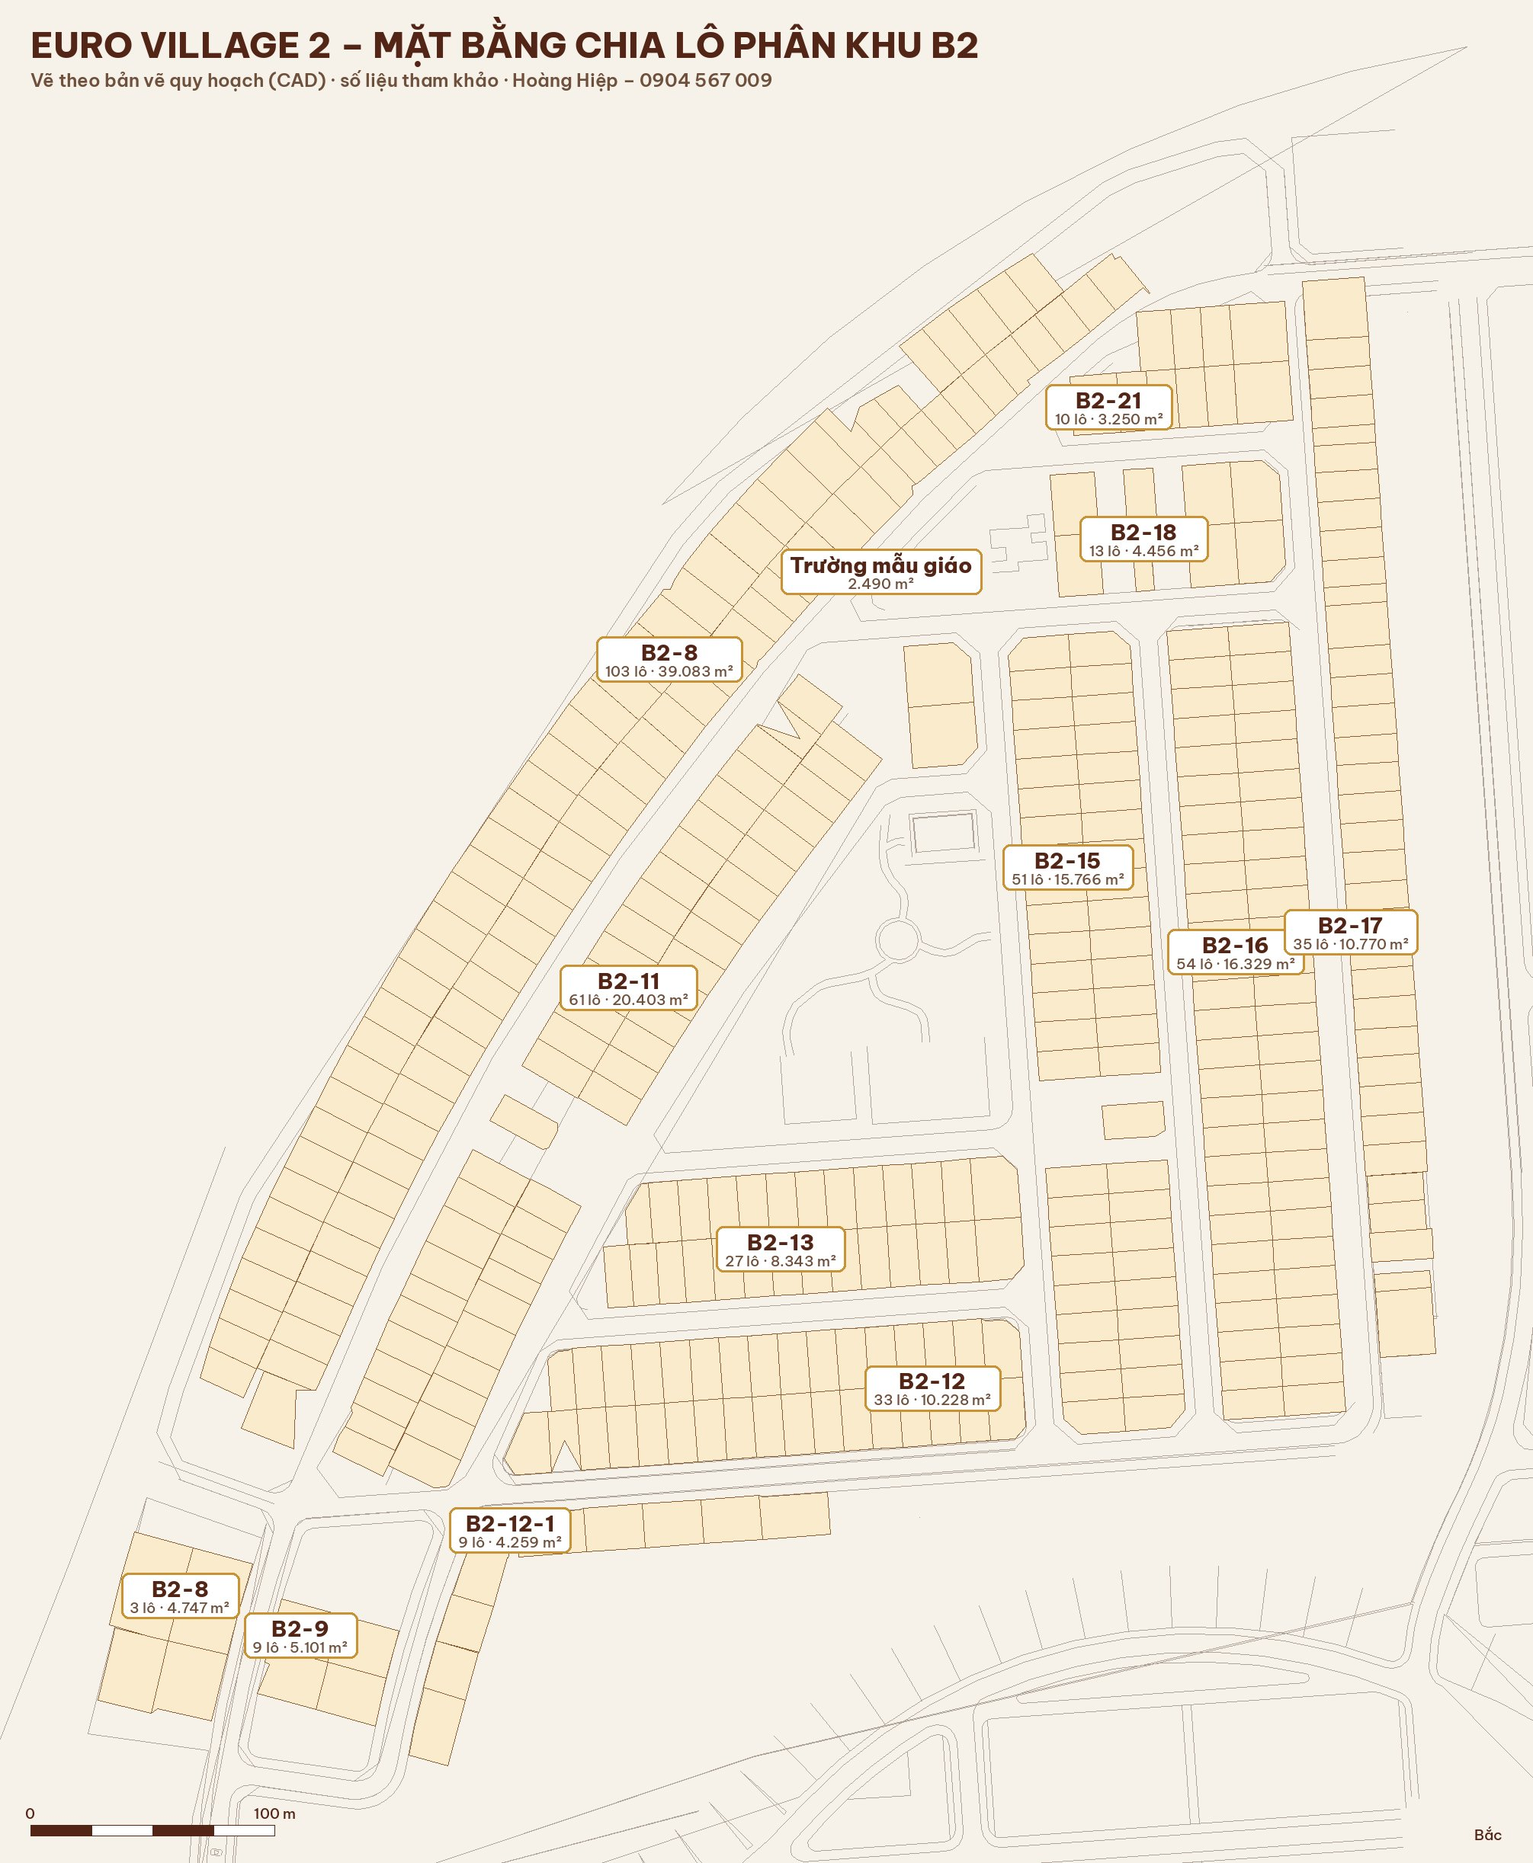
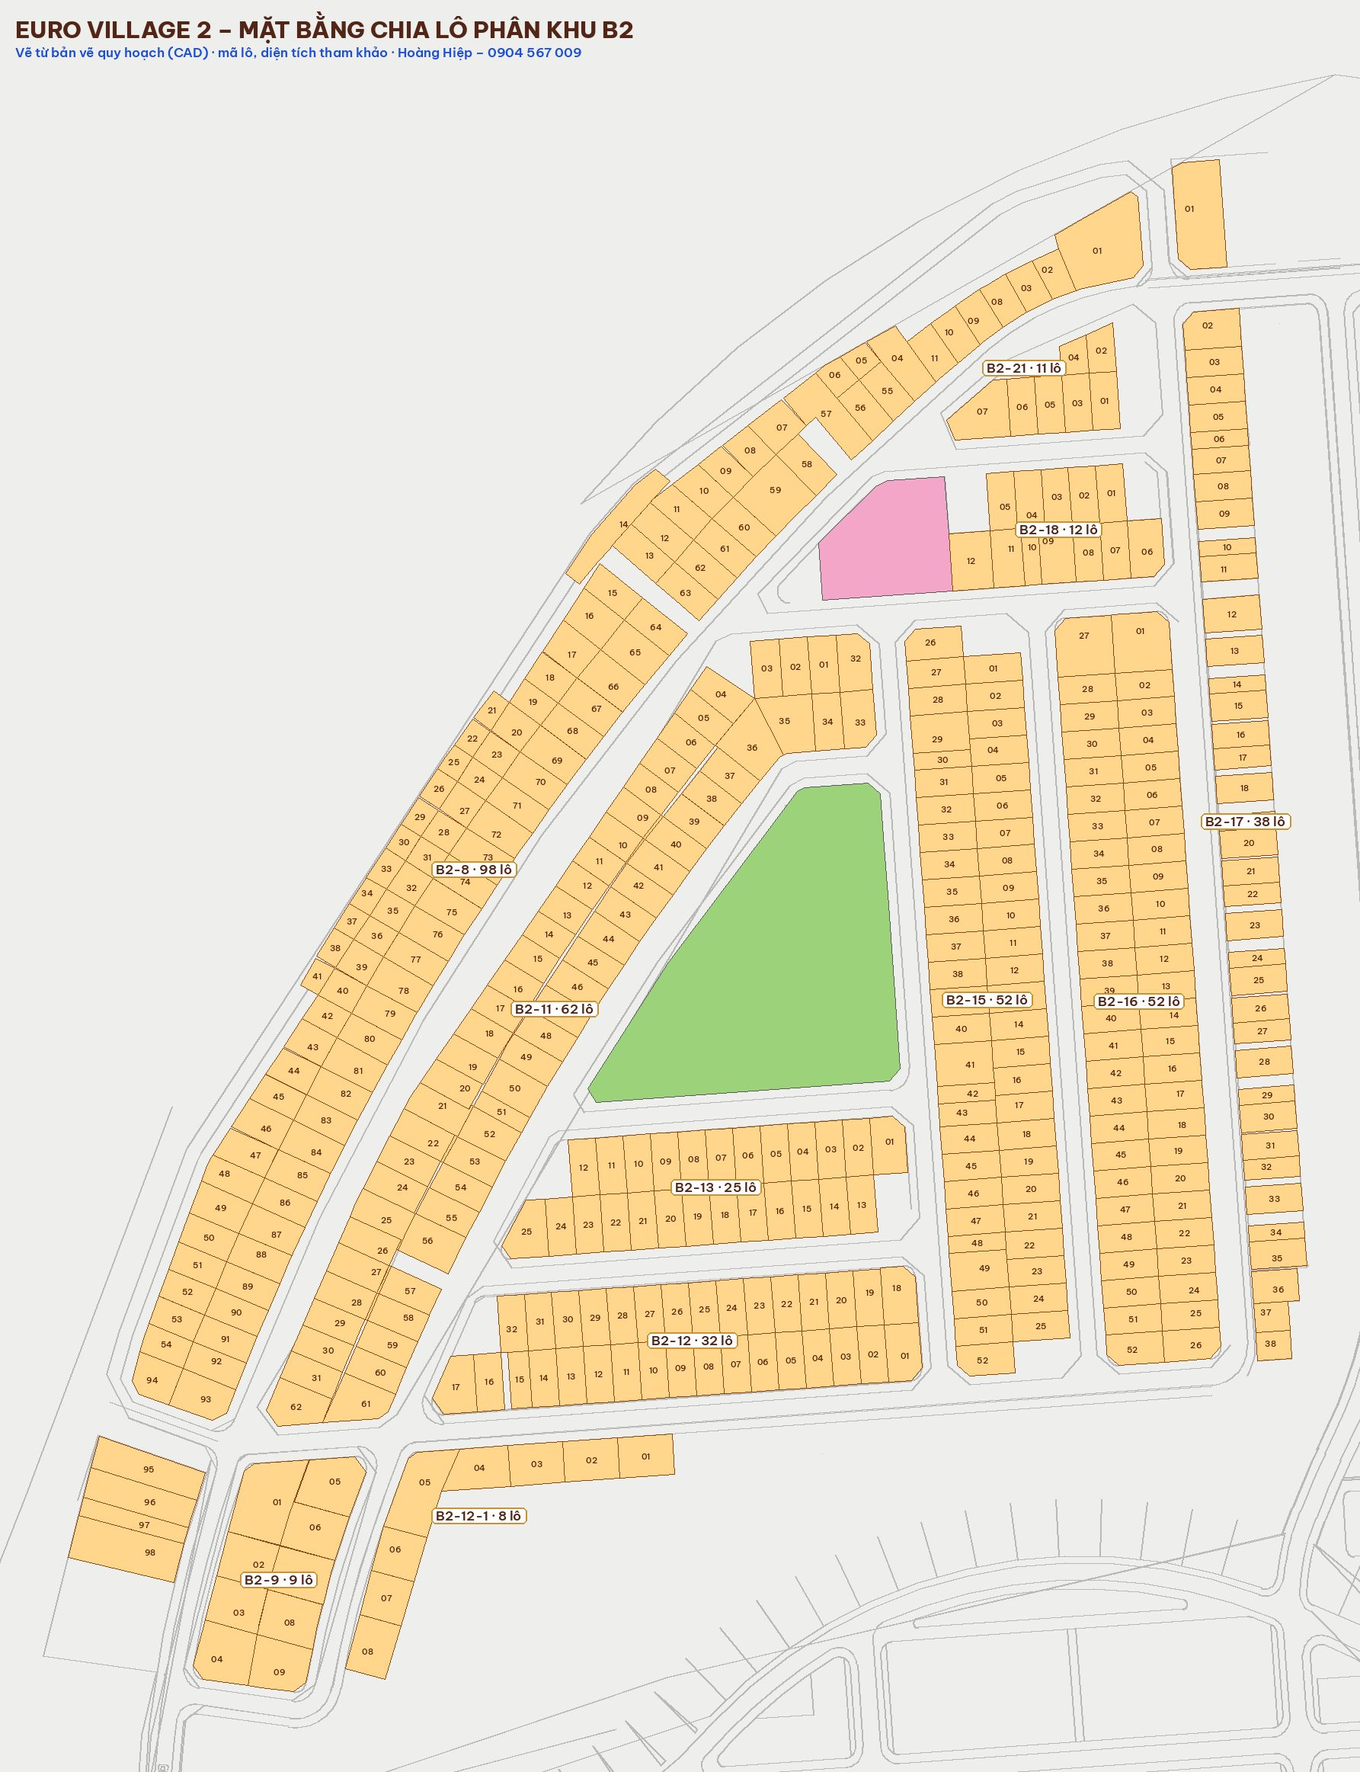
2.20.295: Euro Village 2 – sơ đồ chia lô dựng lại từ CAD, mã lô, màu quy hoạch, căn vị trí theo 2 điểm
Claude-Session: https://claude.ai/code/session_011HGb6VAzLiwbq5KWLxGuh9

diff --git a/wordpress/wp-content/mu-plugins/hh-crm/mat-bang-ban-do.php b/wordpress/wp-content/mu-plugins/hh-crm/mat-bang-ban-do.php
@@ -2,8 +2,8 @@
 /**
  * Mặt bằng chia lô trên bản đồ vệ tinh (dạng vector, bấm từng lô xem diện tích – rộng – sâu).
  * Dữ liệu lô lấy từ file CAD quy hoạch anh Hiệp gửi (Hoa XUan 2019.dwg): ranh lô, mép đường đúng kích thước thật,
- * hướng Bắc theo lưới bản vẽ. File CAD không ghi hệ tọa độ dùng được, nên vị trí trên bản đồ do admin ghim 1 lần
- * (dán tọa độ Google Maps của điểm mốc → Căn theo điểm → Lưu). Khách chỉ thấy khi anh Hiệp bấm "Cho khách xem".
+ * hướng Bắc theo lưới bản vẽ. Tọa độ trong file CAD lệch khoảng 6 km so với thực địa, nên vị trí căn theo 2 điểm mốc
+ * có tọa độ Google Maps thật ('pins' trong hh_mbbd_plans, hoặc admin dán 2 tọa độ → Căn theo 2 điểm → Lưu). Khách chỉ thấy khi anh Hiệp bấm "Cho khách xem".
  */
 
 defined( 'ABSPATH' ) || exit;
@@ -16,9 +16,12 @@ function hh_mbbd_plans() {
 			'data'    => 'img/mat-bang-ban-do/euro-village-2-lo.json',
 			'image'   => 'img/mat-bang-ban-do/euro-village-2-b2-so-do.jpg',
 			'center'  => array( 16.02494, 108.23030 ), // Gợi ý ban đầu (Plus Code 26FJ+X4F, đường Giáng Hương 6) – admin ghim lại cho đúng.
+			// 2 điểm mốc (mét theo bản vẽ). 'pins' = tọa độ Google Maps thật của 2 điểm này (anh Hiệp gửi) → web tự căn vị trí, góc xoay, tỉ lệ.
 			'anchors' => array(
-				array( 'Tâm vòng tròn trong công viên', 86.12, 30.74 ),
+				array( 'Ngã tư góc Tây Bắc khu B2-15 (dưới trường mẫu giáo)', 90.5, 159.4 ),
+				array( 'Ngã tư Đường số 4 – Đường số 9 (góc Đông Nam)', 273.9, -167.6 ),
 			),
+			'pins'    => null,
 		),
 	);
 }
@@ -51,12 +54,13 @@ add_action(
 		if ( ! $admin && ! get_option( 'hh_mbbd_duyet_' . $slug ) ) {
 			return; // Chưa được anh Hiệp duyệt: khách không thấy sơ đồ.
 		}
-		$saved = get_option( 'hh_mbbd2_' . $slug );
+		$saved = get_option( 'hh_mbbd3_' . $slug ); // v3: sơ đồ vẽ lại từ CAD (15/11/2026) – bỏ vị trí ghim theo sơ đồ cũ.
 		$cfg   = array(
 			'data'    => HH_CRM_URL . $p['data'] . '?v=' . HH_CRM_VERSION,
 			'center'  => $p['center'],
 			'anchors' => $p['anchors'],
 			'saved'   => is_array( $saved ) ? $saved : null,
+			'pins'    => $p['pins'] ?? null,
 			'admin'   => $admin,
 			'ajax'    => admin_url( 'admin-ajax.php' ),
 			'nonce'   => $admin ? wp_create_nonce( 'hh_mbbd_' . $slug ) : '',
@@ -67,14 +71,15 @@ add_action(
 		?>
 <div class="hh-mbbd" style="margin:28px 0 8px">
 <h3 style="margin:0 0 6px;font-size:1.15rem">Mặt bằng chia lô <?php echo esc_html( $p['title'] ); ?></h3>
-<p style="font-size:.9rem;color:#6b5b4b;margin:0 0 10px">Bấm vào từng lô để xem <b>diện tích, chiều rộng, chiều sâu</b>. Kéo thanh <b>Độ đậm</b> để so với ảnh vệ tinh hiện trạng.</p>
+<p style="font-size:.9rem;color:#6b5b4b;margin:0 0 10px">Bấm vào từng lô để xem <b>mã lô, diện tích, chiều rộng, chiều sâu</b>; phóng to để thấy mã lô trên sơ đồ. Kéo thanh <b>Độ đậm</b> để so với ảnh vệ tinh hiện trạng.</p>
 <div id="<?php echo esc_attr( $id ); ?>" style="height:min(78vh,640px);border-radius:12px;overflow:hidden;background:#dfe9ef"></div>
 <div class="hh-mbbd-bar" style="display:flex;flex-wrap:wrap;gap:8px;align-items:center;margin-top:8px;font-size:.9rem">
 	<label>Độ đậm <input type="range" min="0" max="100" value="85" data-k="op" style="vertical-align:middle"></label>
 	<?php if ( $admin ) : ?>
-	<span style="flex-basis:100%;color:#8a4b1c"><b>Admin – ghim vị trí 1 lần:</b> mở Google Maps (vệ tinh) → bấm chuột phải đúng <b>tâm vòng tròn trong công viên</b> (chấm xanh ①) → bấm dòng tọa độ để sao chép → dán vào ô → <b>Căn theo điểm</b> → kiểm tra khớp → <b>Lưu vị trí</b>. Có thể kéo chấm đỏ / xoay để chỉnh tinh.</span>
-	<label style="flex-basis:100%">① Tâm vòng tròn công viên: <input type="text" data-k="a1" placeholder="VD 16.02494, 108.23030" style="min-width:240px;padding:5px 8px"></label>
-	<button type="button" data-k="go" style="background:#c99234;color:#fff;border:0">Căn theo điểm</button>
+	<span style="flex-basis:100%;color:#8a4b1c"><b>Admin – căn vị trí 1 lần:</b> mở Google Maps (vệ tinh) → bấm chuột phải đúng <b>2 ngã tư</b> có chấm xanh ① ② trên sơ đồ → bấm dòng tọa độ để sao chép → dán vào 2 ô → <b>Căn theo 2 điểm</b> (tự đúng vị trí, góc xoay, tỉ lệ) → kiểm tra khớp → <b>Lưu vị trí</b>.</span>
+	<label style="flex-basis:100%">① <?php echo esc_html( $p['anchors'][0][0] ); ?>: <input type="text" data-k="a1" placeholder="VD 16.02494, 108.23030" style="min-width:240px;padding:5px 8px"></label>
+	<label style="flex-basis:100%">② <?php echo esc_html( $p['anchors'][1][0] ); ?>: <input type="text" data-k="a2" placeholder="VD 16.02210, 108.23250" style="min-width:240px;padding:5px 8px"></label>
+	<button type="button" data-k="go" style="background:#c99234;color:#fff;border:0">Căn theo 2 điểm</button>
 	<button type="button" data-k="r-1">⟲ 1°</button><button type="button" data-k="r-.2">⟲ 0,2°</button><button type="button" data-k="r.2">⟳ 0,2°</button><button type="button" data-k="r1">⟳ 1°</button>
 	<button type="button" data-k="save" style="background:#532516;color:#fff;border:0;border-radius:6px;padding:6px 14px">Lưu vị trí</button>
 	<button type="button" data-k="reset">Bỏ vị trí đã lưu</button>
@@ -92,7 +97,18 @@ add_action(
 	var el = document.getElementById(<?php echo wp_json_encode( $id ); ?>);
 	if (!window.L || !el) { return; }
 	var bar = el.nextElementSibling;
-	var st = C.saved ? { lat: +C.saved.lat, lng: +C.saved.lng, rot: +C.saved.rot, sc: +C.saved.sc } : { lat: C.center[0], lng: C.center[1], rot: 0, sc: 1 };
+	var st = C.saved ? { lat: +C.saved.lat, lng: +C.saved.lng, rot: +C.saved.rot, sc: +C.saved.sc || 1 } : { lat: C.center[0], lng: C.center[1], rot: 0, sc: 1 };
+	// Căn theo 2 điểm: điểm mốc trên bản vẽ (mét) ↔ tọa độ thật → vị trí, góc xoay, tỉ lệ.
+	function fit2(g1, g2) {
+		var A = C.anchors[0], B = C.anchors[1], k = 111320 * Math.cos(g1[0] * Math.PI / 180);
+		var de = B[1] - A[1], dn = B[2] - A[2], ge = (g2[1] - g1[1]) * k, gn = (g2[0] - g1[0]) * 111320;
+		var sc = Math.hypot(ge, gn) / Math.hypot(de, dn);
+		if (!(sc > 0.9 && sc < 1.1)) { return false; }
+		st.sc = sc; st.rot = (Math.atan2(dn, de) - Math.atan2(gn, ge)) * 180 / Math.PI; st.lat = g1[0]; st.lng = g1[1];
+		var q = m2ll(A[1], A[2]); st.lat -= q.lat - g1[0]; st.lng -= q.lng - g1[1];
+		return true;
+	}
+	if (C.pins && C.pins.length === 2 && !C.saved) { fit2(C.pins[0], C.pins[1]); }
 	var map = L.map(el, { scrollWheelZoom: false, maxZoom: 21, zoomSnap: 0.5 }).setView([st.lat, st.lng], 17);
 	var sat = L.tileLayer('https://server.arcgisonline.com/ArcGIS/rest/services/World_Imagery/MapServer/tile/{z}/{y}/{x}', { maxZoom: 21, maxNativeZoom: 19, attribution: 'Ảnh vệ tinh © Esri, Maxar' }).addTo(map);
 	var osm = L.tileLayer('https://{s}.tile.openstreetmap.org/{z}/{x}/{y}.png', { maxZoom: 21, maxNativeZoom: 19, attribution: '© OpenStreetMap' });
@@ -108,15 +124,18 @@ add_action(
 	function draw() {
 		if (!D) { return; }
 		grp.clearLayers(); lbl.clearLayers();
+		var z = map.getZoom(), ZC = { park: '#9bd27a', school: '#f4a6c8' };
+		(D.zones || []).forEach(function (q) { L.polygon(q[1].map(function (p) { return m2ll(p[0], p[1]); }), { color: '#5d6b5d', weight: 1, fillColor: ZC[q[0]] || '#ddd', fillOpacity: op * .85, opacity: op, interactive: false }).addTo(grp); });
 		D.roads.forEach(function (r) { L.polyline(r.map(function (p) { return m2ll(p[0], p[1]); }), { color: '#ffffff', weight: 1.2, opacity: Math.min(1, op + .1), interactive: false }).addTo(grp); });
 		D.lots.forEach(function (l) {
-			var pg = L.polygon(l[4].map(function (p) { return m2ll(p[0], p[1]); }), { color: '#7a4a22', weight: 1, fillColor: '#f6e7cc', fillOpacity: op * .75, opacity: op });
-			pg.bindPopup('<b>Lô thuộc block ' + l[0] + '</b><br>Diện tích ≈ <b>' + fmt(l[1], 0) + ' m²</b><br>Rộng (mặt tiền) ≈ <b>' + fmt(l[2], 1) + ' m</b> · Sâu ≈ <b>' + fmt(l[3], 1) + ' m</b><br><small>Đo từ bản vẽ quy hoạch, tham khảo. Liên hệ Hoàng Hiệp 0904 567 009 để nhận thông tin lô.</small>');
+			var pg = L.polygon(l[4].map(function (p) { return m2ll(p[0], p[1]); }), { color: '#8c4614', weight: 1, fillColor: '#ffd68c', fillOpacity: op * .85, opacity: op });
+			pg.bindPopup('<b>Lô ' + (l[5] || l[0]) + '</b> <small>(block ' + l[0] + ')</small><br>Diện tích ≈ <b>' + fmt(l[1], 0) + ' m²</b><br>Rộng (mặt tiền) ≈ <b>' + fmt(l[2], 1) + ' m</b> · Sâu ≈ <b>' + fmt(l[3], 1) + ' m</b><br><small>Mã lô, kích thước đo từ bản vẽ quy hoạch – tham khảo, đối chiếu hồ sơ từng lô. Liên hệ Hoàng Hiệp 0904 567 009.</small>');
 			pg.on('mouseover', function () { pg.setStyle({ fillColor: '#f2a65a' }); });
-			pg.on('mouseout', function () { pg.setStyle({ fillColor: '#f6e7cc' }); });
+			pg.on('mouseout', function () { pg.setStyle({ fillColor: '#ffd68c' }); });
+			if (z >= 18.5 && l[5]) { pg.bindTooltip(l[5].split('-').pop(), { permanent: true, direction: 'center', className: 'hh-mbbd-ma' }); }
 			pg.addTo(grp);
 		});
-		var big = map.getZoom() >= 17.5;
+		var big = z >= 17.5;
 		D.labels.forEach(function (a) {
 			L.marker(m2ll(a[1], a[2]), { interactive: false, icon: L.divIcon({ className: 'hh-mbbd-lb', html: '<b>' + a[0] + '</b>' + (big && a[3] ? '<br><small>' + a[3] + '</small>' : ''), iconSize: null }) }).addTo(lbl);
 		});
@@ -135,25 +154,28 @@ add_action(
 	});
 	map.on('zoomend', draw);
 	var css = document.createElement('style');
-	css.textContent = '.hh-mbbd-lb{background:rgba(255,255,255,.92);border:2px solid #c99234;border-radius:8px;padding:2px 7px;color:#532516;font:600 12px/1.25 "Be Vietnam Pro",sans-serif;text-align:center;white-space:nowrap;transform:translate(-50%,-50%);width:auto!important;height:auto!important}.hh-mbbd-lb small{color:#6b5040;font-weight:500}.hh-mbbd-bar button{border:1px solid #c99234;background:#fff;border-radius:6px;padding:5px 10px;cursor:pointer}';
+	css.textContent = '.hh-mbbd-ma{background:none;border:0;box-shadow:none;padding:0;color:#5a2a08;font:600 10px/1 sans-serif}.hh-mbbd-ma:before{display:none}.hh-mbbd-lb{background:rgba(255,255,255,.92);border:2px solid #c99234;border-radius:8px;padding:2px 7px;color:#532516;font:600 12px/1.25 "Be Vietnam Pro",sans-serif;text-align:center;white-space:nowrap;transform:translate(-50%,-50%);width:auto!important;height:auto!important}.hh-mbbd-lb small{color:#6b5040;font-weight:500}.hh-mbbd-bar button{border:1px solid #c99234;background:#fff;border-radius:6px;padding:5px 10px;cursor:pointer}';
 	document.head.appendChild(css);
 	bar.querySelector('[data-k=op]').addEventListener('input', function () { op = this.value / 100; draw(); });
 	if (!C.admin) { return; }
 	var msg = bar.querySelector('[data-k=st]');
-	function show() { msg.textContent = st.lat.toFixed(6) + ', ' + st.lng.toFixed(6) + ' · xoay ' + st.rot.toFixed(1) + '°'; }
+	function show() { msg.textContent = st.lat.toFixed(6) + ', ' + st.lng.toFixed(6) + ' · xoay ' + st.rot.toFixed(2) + '° · tỉ lệ ' + st.sc.toFixed(3); }
 	var pin = L.marker([st.lat, st.lng], { draggable: true, zIndexOffset: 1000, icon: L.divIcon({ className: '', html: '<div style="width:22px;height:22px;border-radius:50%;background:#d33;border:3px solid #fff;box-shadow:0 0 6px #000;transform:translate(-50%,-50%)"></div>', iconSize: null }) }).addTo(map);
 	pin.on('dragend', function (ev) { var q = ev.target.getLatLng(); st.lat = q.lat; st.lng = q.lng; draw(); show(); });
 	bar.querySelectorAll('button[data-k]').forEach(function (b) {
 		b.addEventListener('click', function () {
 			var k = b.getAttribute('data-k');
 			if (k === 'go') {
-				var v = (bar.querySelector('[data-k=a1]').value.match(/-?\d+(?:\.\d+)?/g) || []).map(parseFloat);
-				if (v.length < 2) { msg.textContent = 'Chưa đọc được tọa độ.'; return; }
-				var K = C.anchors[0];
-				st.lat = v[0]; st.lng = v[1];
-				var q = m2ll(K[1], K[2]);
-				st.lat -= q.lat - v[0]; st.lng -= q.lng - v[1];
-				pin.setLatLng([st.lat, st.lng]); map.setView([v[0], v[1]], 17.5); draw(); show();
+				var rd = function (n) { return (bar.querySelector('[data-k=' + n + ']').value.match(/-?\d+(?:\.\d+)?/g) || []).map(parseFloat); };
+				var v1 = rd('a1'), v2 = rd('a2');
+				if (v1.length < 2) { msg.textContent = 'Chưa đọc được tọa độ ①.'; return; }
+				if (v2.length >= 2) {
+					if (!fit2([v1[0], v1[1]], [v2[0], v2[1]])) { msg.textContent = 'Hai điểm lệch tỉ lệ quá nhiều – kiểm tra lại đúng 2 ngã tư ① ②.'; return; }
+				} else {
+					var K = C.anchors[0]; st.lat = v1[0]; st.lng = v1[1];
+					var q = m2ll(K[1], K[2]); st.lat -= q.lat - v1[0]; st.lng -= q.lng - v1[1];
+				}
+				pin.setLatLng([st.lat, st.lng]); map.setView([v1[0], v1[1]], 17.5); draw(); show();
 				return;
 			}
 			if (k === 'pub' || k === 'save' || k === 'reset') {
@@ -193,19 +215,22 @@ add_action(
 			wp_send_json_success();
 		}
 		if ( ! empty( $_POST['reset'] ) ) {
-			delete_option( 'hh_mbbd2_' . $slug );
+			delete_option( 'hh_mbbd3_' . $slug );
 			wp_send_json_success();
 		}
 		$v = array(
 			'lat' => (float) wp_unslash( $_POST['lat'] ?? 0 ),
 			'lng' => (float) wp_unslash( $_POST['lng'] ?? 0 ),
 			'rot' => (float) wp_unslash( $_POST['rot'] ?? 0 ),
-			'sc'  => 1.0,
+			'sc'  => (float) wp_unslash( $_POST['sc'] ?? 1 ),
 		);
+		if ( $v['sc'] < 0.9 || $v['sc'] > 1.1 ) {
+			$v['sc'] = 1.0;
+		}
 		if ( abs( $v['lat'] - 16 ) > 1 || abs( $v['lng'] - 108.2 ) > 1 ) {
 			wp_send_json_error( null, 400 );
 		}
-		update_option( 'hh_mbbd2_' . $slug, $v, false );
+		update_option( 'hh_mbbd3_' . $slug, $v, false );
 		do_action( 'litespeed_purge_all' );
 		wp_send_json_success();
 	}

diff --git a/wordpress/packaging/hoang-hiep-crm.php b/wordpress/packaging/hoang-hiep-crm.php
@@ -2,7 +2,7 @@
 /**
  * Plugin Name: Hoàng Hiệp CRM
  * Description: Dự án, nhà đất mua bán / cho thuê, khách hàng tiềm năng và dữ liệu dự án Đà Nẵng cho hiephoangmt.com. Dùng kèm giao diện Hoàng Hiệp.
- * Version: 2.20.294
+ * Version: 2.20.295
  * Author: Hoàng Hiệp
  * Requires PHP: 7.4
  */
@@ -14,7 +14,7 @@ if ( defined( 'HH_CRM_VERSION' ) ) {
 	return;
 }
 
-define( 'HH_CRM_VERSION', '2.20.294' );
+define( 'HH_CRM_VERSION', '2.20.295' );
 define( 'HH_CRM_DIR', __DIR__ . '/hh-crm/' );
 define( 'HH_CRM_URL', plugin_dir_url( __FILE__ ) . 'hh-crm/' );
 

diff --git a/wordpress/wp-content/mu-plugins/hh-crm.php b/wordpress/wp-content/mu-plugins/hh-crm.php
@@ -2,7 +2,7 @@
 /**
  * Plugin Name: Hoàng Hiệp CRM
  * Description: Dự án, nhà đất mua bán / cho thuê và khách hàng tiềm năng cho hiephoangmt.com.
- * Version: 2.20.294
+ * Version: 2.20.295
  * Author: Hoàng Hiệp
  */
 
@@ -13,7 +13,7 @@ if ( defined( 'HH_CRM_VERSION' ) ) {
 	return;
 }
 
-define( 'HH_CRM_VERSION', '2.20.294' );
+define( 'HH_CRM_VERSION', '2.20.295' );
 define( 'HH_CRM_DIR', __DIR__ . '/hh-crm/' );
 define( 'HH_CRM_URL', WPMU_PLUGIN_URL . '/hh-crm/' );
 

diff --git a/wordpress/GHI-CHU-CAP-NHAT.md b/wordpress/GHI-CHU-CAP-NHAT.md
@@ -1,6 +1,6 @@
 # Gói cập nhật hiephoangmt.com – 12/10/2026
 
-**File cài:** `hoang-hiep-tron-goi.zip` (giao diện Hoàng Hiệp **2.16.33** + plugin Hoàng Hiệp CRM **2.20.294**) · cập nhật nhanh bằng điện thoại: `cap-nhat-nhanh.zip`
+**File cài:** `hoang-hiep-tron-goi.zip` (giao diện Hoàng Hiệp **2.16.33** + plugin Hoàng Hiệp CRM **2.20.295**) · cập nhật nhanh bằng điện thoại: `cap-nhat-nhanh.zip`
 **Xem trước:** https://claude.ai/artifact/ACKuFhbbb8yj5VoU8Ty9X7 (riêng tư – bấm Chia sẻ nếu muốn gửi người khác)
 
 ## Cài đặt từng bước (khoảng 10 phút)
@@ -40,6 +40,14 @@ Hình minh hoạ từng bước: thư mục `huong-dan/` (cai-1 … cai-4, inter
 Kẹt ở bước nào: chụp màn hình gửi lại.
 
 Ô / bài anh đã tự sửa trong quản trị **không bị ghi đè** khi nhập dữ liệu.
+
+## Có gì mới – 2.20.295 (15/11/2026) – Euro Village 2: sơ đồ vẽ lại từ CAD, có mã lô
+
+- **Ranh lô dựng lại trực tiếp từ bản CAD** (đường chia lô + ranh block), không còn lô chồng, lô lấn đường; block B2-15 đủ 2 dãy. Số lô từng block gần khớp số liệu ghi trên bản vẽ (nhãn block ghi số lô, diện tích theo bản vẽ).
+- **Mã lô** dạng B2-15-07: phóng to bản đồ thấy số lô trên từng lô; bấm lô hiện mã, diện tích, mặt tiền, chiều sâu (tham khảo).
+- **Màu như bản đồ quy hoạch:** đất ở vàng cam, công viên xanh lá, trường mẫu giáo hồng.
+- **Căn vị trí theo 2 điểm** (2 ngã tư ① ②): dán 2 tọa độ Google Maps → tự đúng vị trí, góc xoay và tỉ lệ → Lưu vị trí. Vị trí ghim theo sơ đồ cũ tự bỏ. Tọa độ trong file CAD lệch khoảng 6 km nên không dùng trực tiếp được.
+- Ảnh sơ đồ tĩnh (khi chưa căn vị trí) vẽ lại theo dữ liệu mới.
 
 ## Có gì mới – 2.20.294 (15/11/2026) – đợt 2: TOÀN BỘ bài đạt chuẩn SEO 100/100
 
